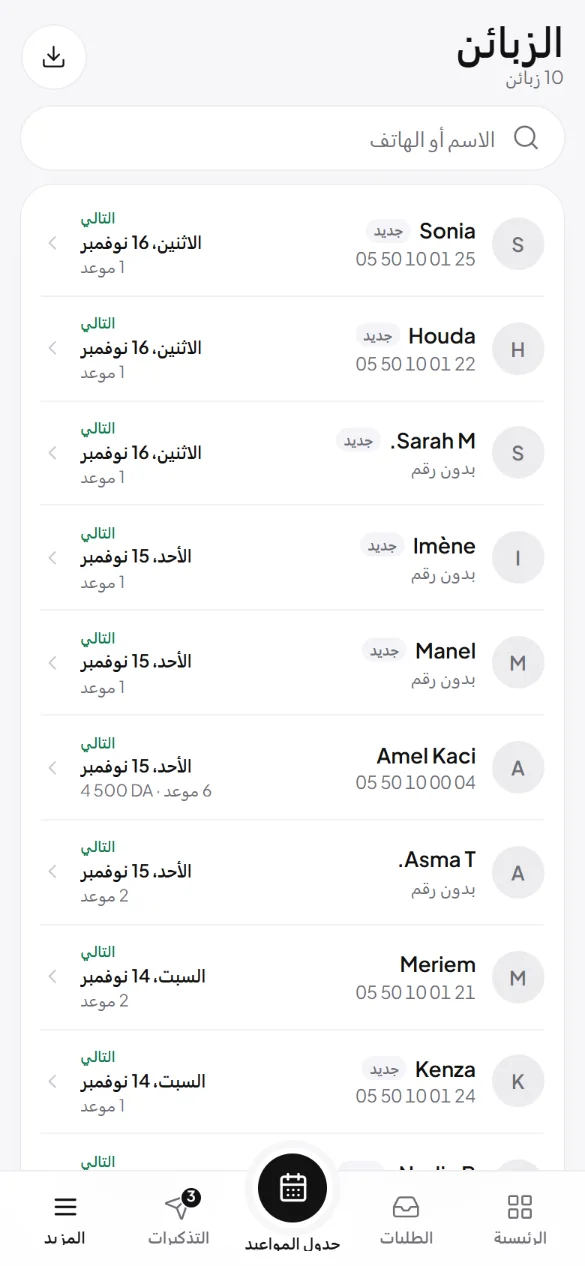
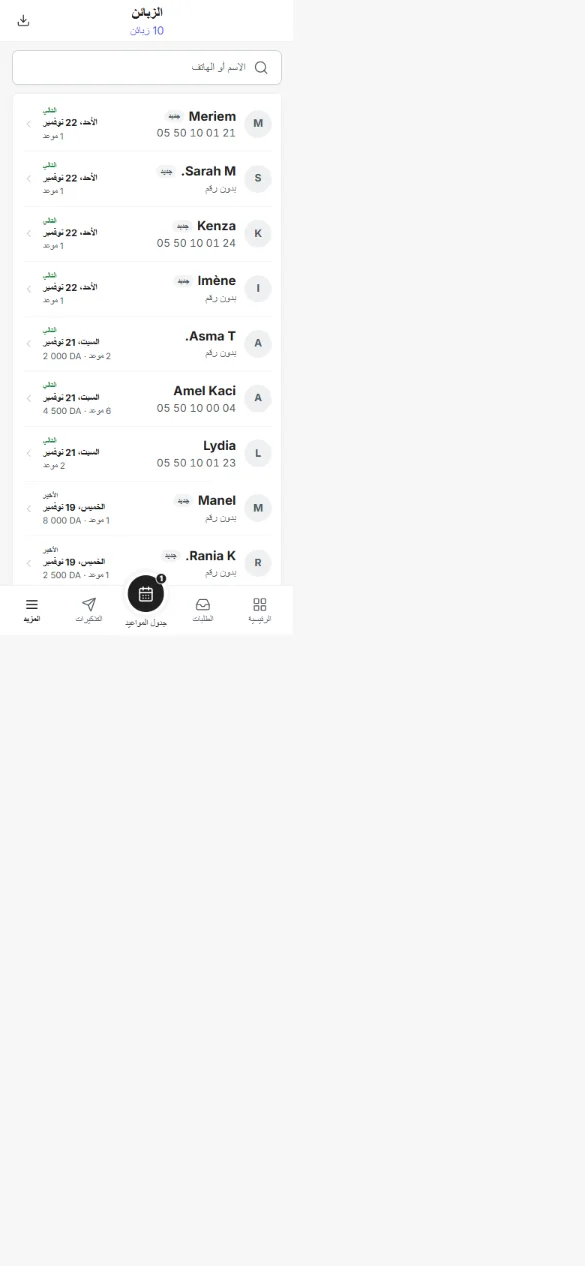
Captures du site refaites (design Planity) ; espace pro sans débordement en arabe

diff --git a/apps/web/src/styles/planity.css b/apps/web/src/styles/planity.css
@@ -1733,3 +1733,9 @@ html.pro-theme .h12-violet .h13-chip em {
 html.pro-theme .h12-violet .h13-chip.live em {
   color: #5fe08a;
 }
+
+/* Barres blanches pleine largeur (`.pla-bar`, `.pla-top`, `.tb-titre`) : leurs marges négatives
+   dépassaient de 2 px ; en arabe, ce débordement faisait dézoomer la page entière sur téléphone. */
+html.espace-pro .scr {
+  overflow-x: clip;
+}
